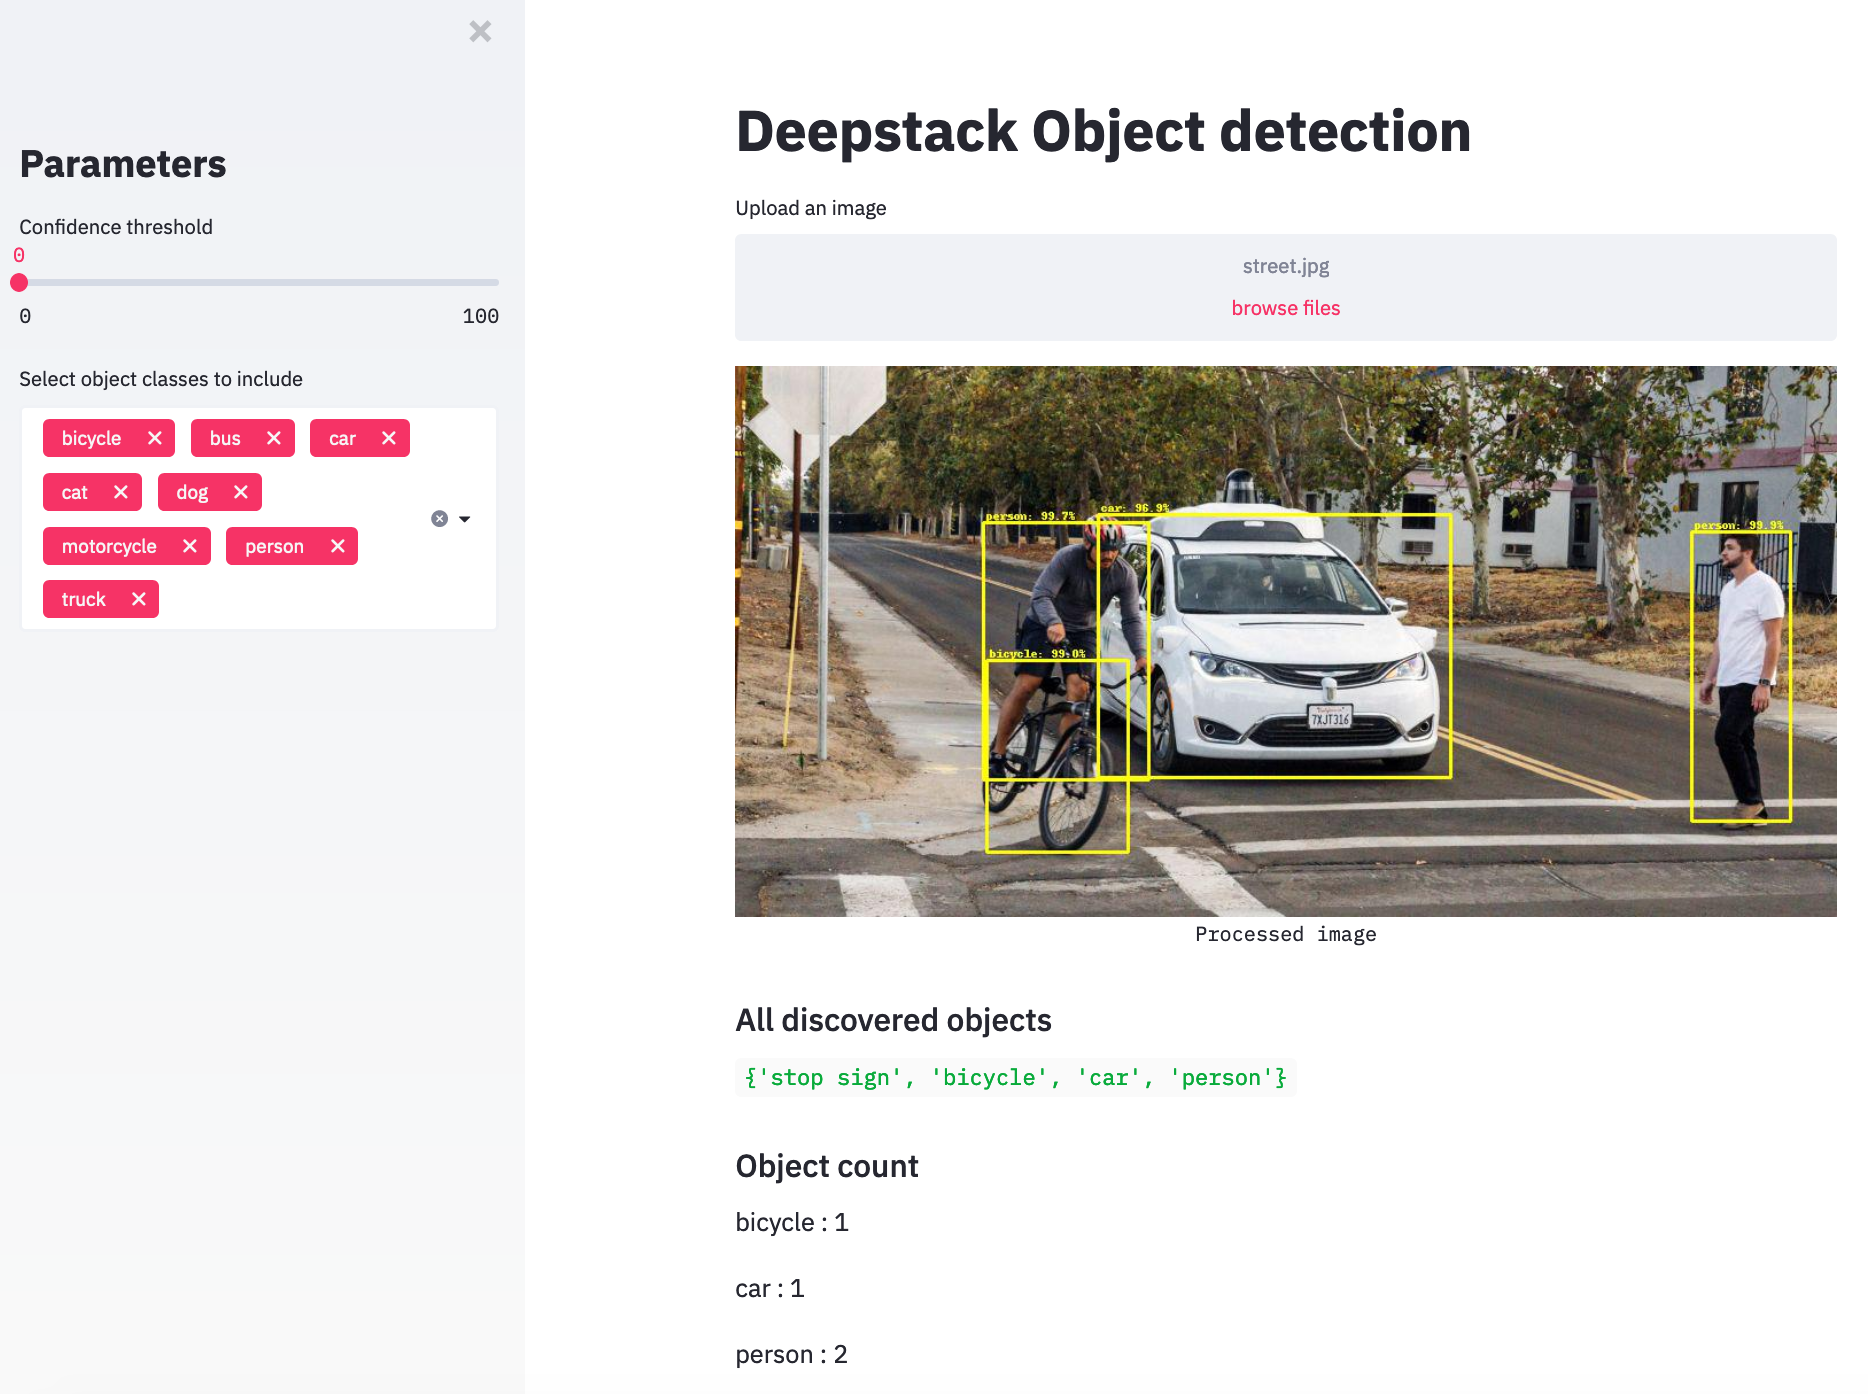
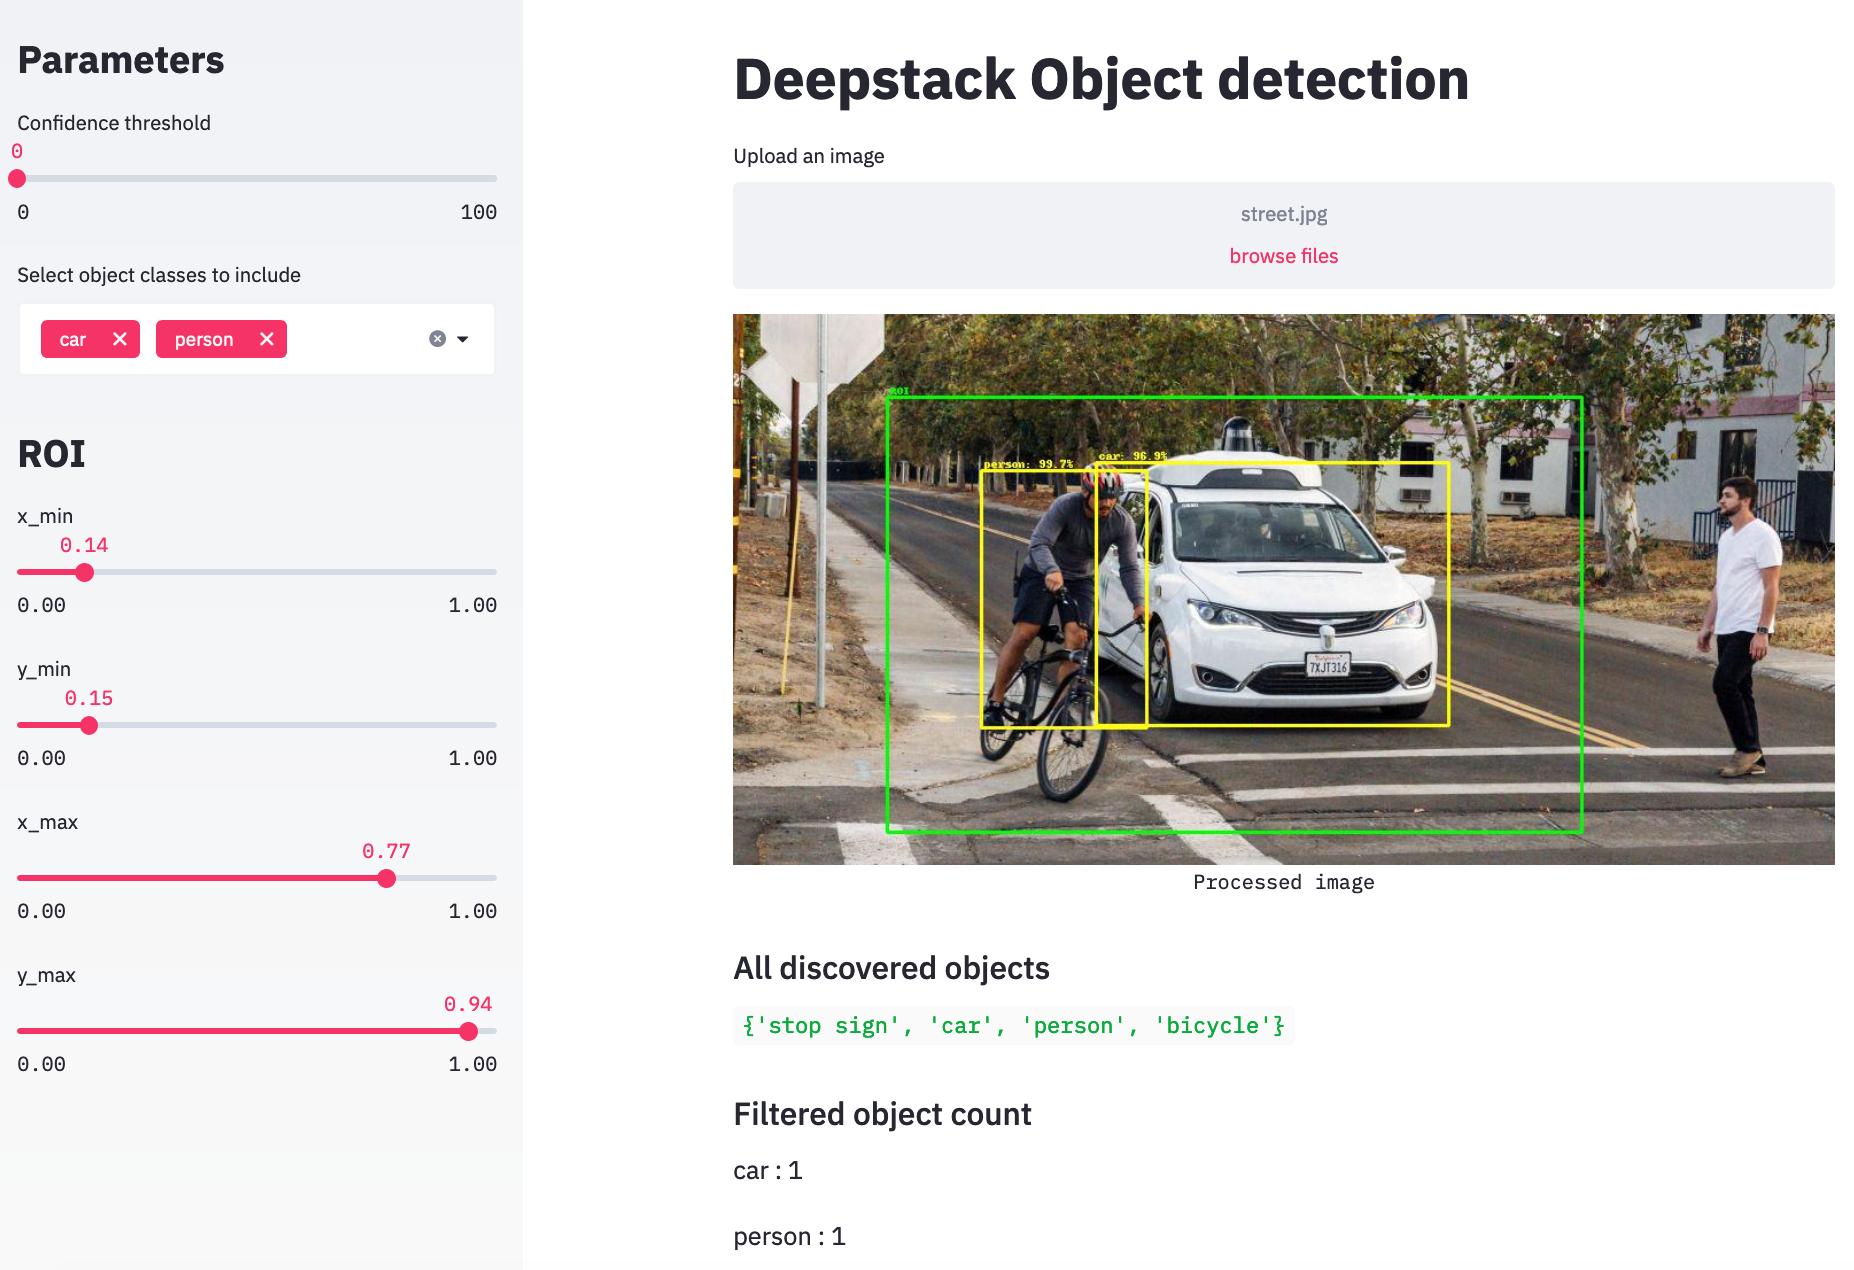
Adds ROI

diff --git a/app/streamlit-ui.py b/app/streamlit-ui.py
@@ -18,6 +18,17 @@ DEEPSTACK_TIMEOUT = int(os.getenv("DEEPSTACK_TIMEOUT", 10))
 DEFAULT_CONFIDENCE_THRESHOLD = 0
 TEST_IMAGE = "street.jpg"
 
+DEFAULT_ROI_Y_MIN = 0.0
+DEFAULT_ROI_Y_MAX = 1.0
+DEFAULT_ROI_X_MIN = 0.0
+DEFAULT_ROI_X_MAX = 1.0
+DEFAULT_ROI = (
+    DEFAULT_ROI_Y_MIN,
+    DEFAULT_ROI_X_MIN,
+    DEFAULT_ROI_Y_MAX,
+    DEFAULT_ROI_X_MAX,
+)
+
 predictions = None
 
 
@@ -29,6 +40,7 @@ def process_image(pil_image, dsobject):
     return predictions
 
 
+## Setup sidebar
 st.title("Deepstack Object detection")
 img_file_buffer = st.file_uploader("Upload an image", type=["png", "jpg", "jpeg"])
 
@@ -36,12 +48,33 @@ st.sidebar.title("Parameters")
 CONFIDENCE_THRESHOLD = st.sidebar.slider(
     "Confidence threshold", 0, 100, DEFAULT_CONFIDENCE_THRESHOLD, 1
 )
+
 CLASSES_TO_INCLUDE = st.sidebar.multiselect(
     "Select object classes to include",
     options=const.CLASSES,
     default=const.DEFAULT_CLASSES,
 )
 
+# Get ROI info
+st.sidebar.title("ROI")
+ROI_X_MIN = st.sidebar.slider("x_min", 0.0, 1.0, DEFAULT_ROI_X_MIN)
+ROI_Y_MIN = st.sidebar.slider("y_min", 0.0, 1.0, DEFAULT_ROI_Y_MIN)
+ROI_X_MAX = st.sidebar.slider("x_max", 0.0, 1.0, DEFAULT_ROI_X_MAX)
+ROI_Y_MAX = st.sidebar.slider("y_max", 0.0, 1.0, DEFAULT_ROI_Y_MAX)
+ROI_TUPLE = (
+    ROI_Y_MIN,
+    ROI_X_MIN,
+    ROI_Y_MAX,
+    ROI_X_MAX,
+)
+ROI_DICT = {
+    "x_min": ROI_X_MIN,
+    "y_min": ROI_Y_MIN,
+    "x_max": ROI_X_MAX,
+    "y_max": ROI_Y_MAX,
+}
+
+## Process image
 if img_file_buffer is not None:
     pil_image = Image.open(img_file_buffer)
 
@@ -59,7 +92,9 @@ all_objects_names = set([obj["name"] for obj in objects])
 # Filter objects for display
 objects = [obj for obj in objects if obj["confidence"] > CONFIDENCE_THRESHOLD]
 objects = [obj for obj in objects if obj["name"] in CLASSES_TO_INCLUDE]
+objects = [obj for obj in objects if utils.object_in_roi(ROI_DICT, obj["centroid"])]
 
+# Draw object boxes
 draw = ImageDraw.Draw(pil_image)
 for obj in objects:
     name = obj["name"]
@@ -76,13 +111,25 @@ for obj in objects:
         color=const.YELLOW,
     )
 
+# Draw ROI box
+if ROI_TUPLE != DEFAULT_ROI:
+    utils.draw_box(
+        draw,
+        ROI_TUPLE,
+        pil_image.width,
+        pil_image.height,
+        text="ROI",
+        color=const.GREEN,
+    )
+
+# Display image and results
 st.image(
     np.array(pil_image), caption=f"Processed image", use_column_width=True,
 )
 st.subheader("All discovered objects")
 st.write(all_objects_names)
 
-st.subheader("Object count")
+st.subheader("Filtered object count")
 obj_types = list(set([obj["name"] for obj in objects]))
 for obj_type in obj_types:
     obj_type_count = len([obj for obj in objects if obj["name"] == obj_type])
